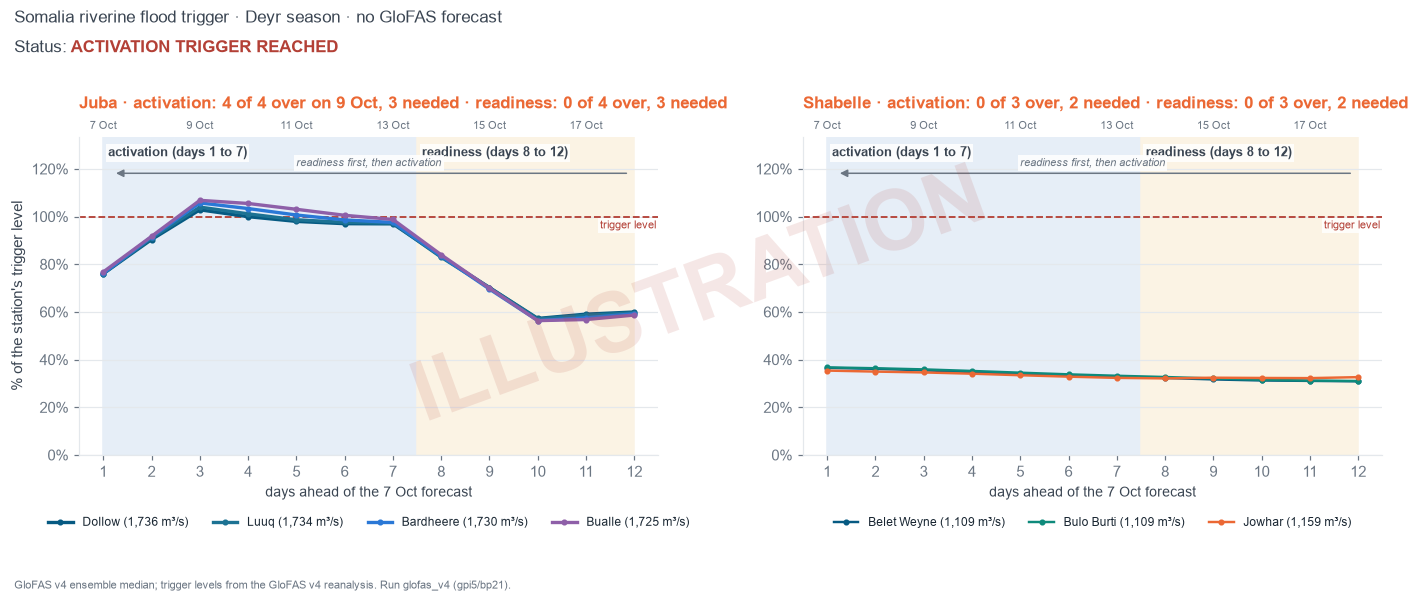
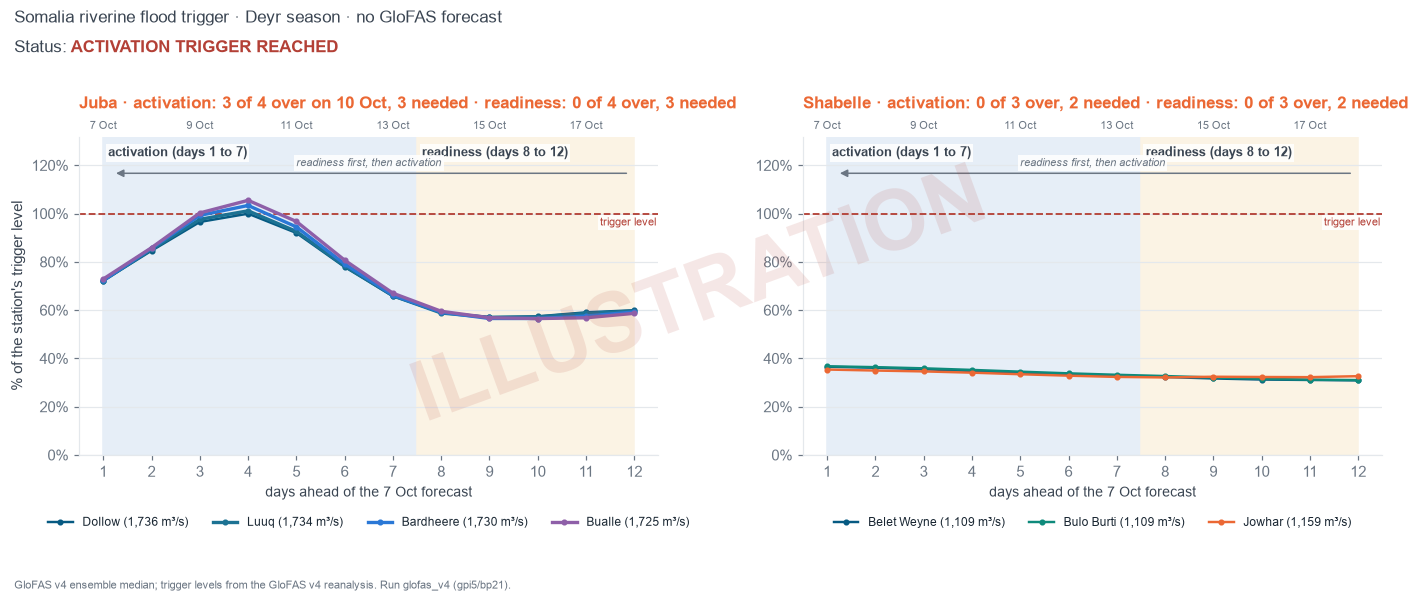
Chart examples as one smooth wave; plainer caption and how-to-read text

diff --git a/pages/monitoring/index.html b/pages/monitoring/index.html
@@ -112,30 +112,28 @@ details.howto p.muted { color:var(--n7); font-size:12.5px; padding-bottom:10px; 
     <h2>Latest forecasts against the trigger thresholds</h2>
     <figure id="chartfig" hidden>
       <img id="chart" alt="Forecast at each monitored point as a share of its own threshold">
-      <figcaption>Each line is one monitored point, as a percentage of its own trigger threshold for the
-        season being watched; the dashed line is the threshold that counts as a vote. The two shaded bands
-        count forward from the forecast issue date: the next 7 days are the activation window (darker band)
-        and days 8 to 12 are the readiness window (lighter band). GloFAS lines are the
-        ensemble median.</figcaption>
+      <figcaption>Each line is one station as a percentage of its own trigger level. The red dashed line is
+        the trigger level. Blue band: the next 7 days, where activation is decided. Orange band: days 8 to 12,
+        where readiness is decided. GloFAS lines are the ensemble median.</figcaption>
     </figure>
     <details class="howto">
       <summary>How to read this chart</summary>
-      <p>Each station is drawn as a share of its own trigger level, so 100% is the level that counts as
-         a vote. The forecast is read from today outward: the blue band is the next 7 days, where the
-         activation trigger is decided, and the orange band is days 8 to 12, where the readiness trigger
-         is decided. A flood that is still 8 to 12 days away shows up in the orange band first; as the
-         days pass it moves left into the blue band. Readiness comes first, then activation.</p>
+      <p>Each line is one station, shown as a percentage of its own trigger level. Above the red line, the
+         station counts. The blue band covers the next 7 days and decides activation. The orange band
+         covers days 8 to 12 and decides readiness. A flood that is ten days away appears in the orange
+         band first and moves into the blue band as the days pass. That is why readiness normally comes
+         before activation.</p>
       <div class="howto-grid">
         <figure>
           <img src="examples/readiness.png" alt="Illustration of a readiness trigger: Juba stations above their trigger level in the orange 8 to 12 day band only">
-          <figcaption><b>Readiness reached.</b> Enough Juba stations are above their level on one day in the orange band, days 8 to 12, while the blue band stays below. The status reads readiness trigger reached.</figcaption>
+          <figcaption><b>Readiness reached.</b> Juba stations go over the line in the orange band and stay under it in the blue band.</figcaption>
         </figure>
         <figure>
           <img src="examples/activation.png" alt="Illustration of an activation trigger: Juba stations above their trigger level in the blue 1 to 7 day band">
-          <figcaption><b>Activation reached.</b> Enough Juba stations are above their level on one day in the blue band, days 1 to 7. The status reads activation trigger reached, whatever the orange band shows.</figcaption>
+          <figcaption><b>Activation reached.</b> Juba stations go over the line in the blue band. The orange band no longer matters.</figcaption>
         </figure>
       </div>
-      <p class="muted">Both pictures are illustrations built from a real forecast day with the Juba values scaled up, not readings.</p>
+      <p class="muted">These two charts are illustrations, not readings. They take a real forecast day and scale up the Juba values.</p>
     </details>
 
     <h2>Forecast peak at each station</h2>

diff --git a/scripts/build_chart_examples.py b/scripts/build_chart_examples.py
@@ -10,6 +10,7 @@ src/monitoring/plot.py so the examples match the live chart.
 Output: pages/monitoring/examples/{readiness,activation}.png
 """
 import datetime as dt
+import math
 import sys
 from pathlib import Path
 
@@ -23,15 +24,11 @@ JUBA = ["dollow", "luuq", "bardheere", "bualle"]
 
 def example(df, day, leads, factor, name):
     d = df.copy()
-    # rise to the factor over the band's first three days, hold to its end, then ease back
-    # over the next three days, so the shape reads as one flood wave rather than a step
+    # one smooth flood wave centred inside the band: a bell-shaped scaling that peaks at the
+    # factor mid-band and fades to 1 outside it, so the other band stays under its level
+    centre = (leads[0] + leads[1]) / 2
     for lead in range(1, 13):
-        if lead < leads[0]:
-            f = 1.0
-        elif lead <= leads[1]:
-            f = 1 + (factor - 1) * min(1.0, (lead - leads[0] + 1) / 3)
-        else:
-            f = 1 + (factor - 1) * max(0.0, 1 - (lead - leads[1]) / 3)
+        f = 1 + (factor - 1) * math.exp(-((lead - centre) ** 2) / (2 * 1.8 ** 2))
         m = (d.source == "glofas") & d.station.isin(JUBA) & (d.leadtime_days == lead)
         d.loc[m, "value"] = d.loc[m, "value"] * f
     res = evaluate.evaluate(d, day)
